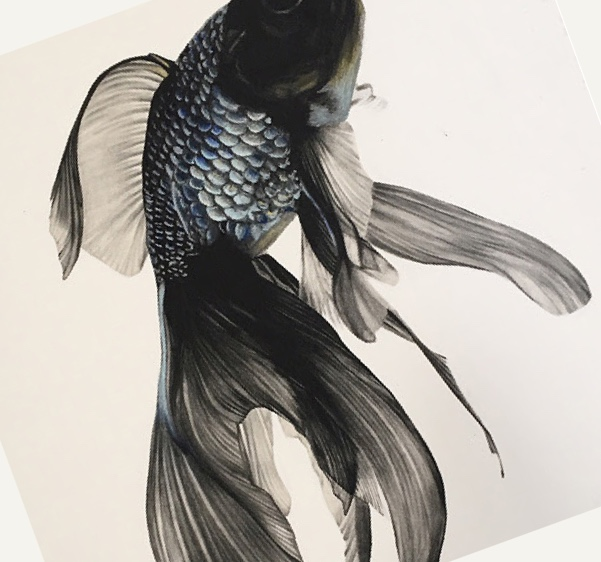
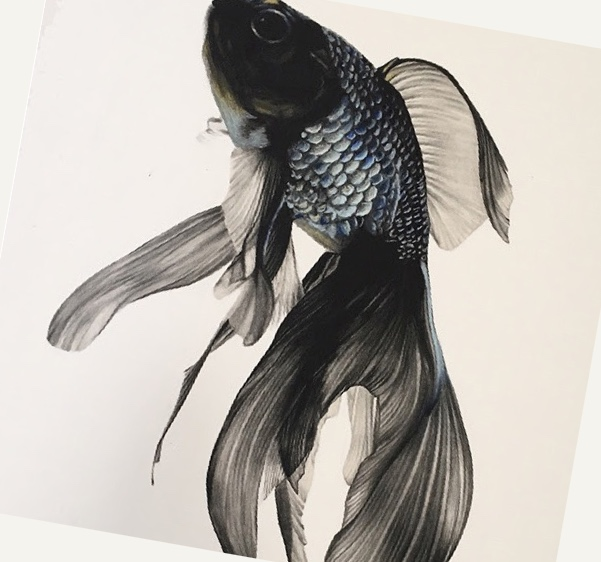
Hero: fish only, face left, organic frame with gentle float; remove river photo

diff --git a/style.css b/style.css
@@ -129,30 +129,28 @@ h1 em { color: var(--accent); font-style: italic; }
 .menu a:hover { color: var(--ink); background: var(--card); text-decoration: none; }
 
 /* Hero */
-.hero { padding: 64px 0 56px; position: relative; overflow: hidden; }
+.hero { padding: 64px 0 56px; position: relative; overflow: hidden; min-height: 440px; }
 .hero .wrap { position: relative; z-index: 1; }
 /* Photo fades softly into the page on all sides, on the right of the hero. */
-/* The whole picture sits inside a framed box on the right of the hero. */
+/* The fish sits in an organic, blob-shaped frame on the right of the hero,
+   with a slow float. */
 .hero-art {
   position: absolute;
   top: 50%;
-  right: 5%;
-  transform: translateY(-50%);
-  width: min(44vw, 520px);
-  height: 240px;
-  display: flex;
-  gap: 12px;
-  pointer-events: none;
-}
-.frame {
-  flex: 1;
-  background: #f2efe9 center / cover no-repeat;
-  border-radius: 16px;
+  right: 6%;
+  width: min(34vw, 360px);
+  height: 340px;
+  background: #f2efe9 url("images/fish.jpg?v=7") center / cover no-repeat;
+  border-radius: 48% 52% 46% 54% / 40% 44% 56% 60%;
   border: 1px solid var(--line);
-  box-shadow: 0 18px 36px -24px rgba(0, 0, 0, 0.5);
+  box-shadow: 0 24px 50px -28px rgba(0, 0, 0, 0.6), inset 0 0 0 10px rgba(255, 255, 255, 0.35);
+  pointer-events: none;
+  animation: float 7s ease-in-out infinite;
 }
-.f-fish { background-image: url("images/fish.jpg?v=6"); background-size: contain; }
-.f-river { background-image: url("images/background.jpg?v=6"); }
+@keyframes float {
+  0%, 100% { transform: translateY(-50%) rotate(0deg); }
+  50% { transform: translateY(calc(-50% - 10px)) rotate(1.5deg); }
+}
 @media only screen and (max-width: 760px) {
   .hero-art {
     position: relative;
@@ -160,7 +158,11 @@ h1 em { color: var(--accent); font-style: italic; }
     right: auto;
     transform: none;
     width: 100%;
-    height: 200px;
+    max-width: 320px;
+    height: 300px;
+    margin-left: auto;
+    margin-right: auto;
+    animation: none;
     margin-bottom: 24px;
   }
 }

diff --git a/index.html b/index.html
@@ -7,7 +7,7 @@
   <meta name="referrer" content="no-referrer">
   <meta name="description" content="Free audiobooks. No cookies, no trackers.">
   <title>Free Audiobooks</title>
-  <link rel="stylesheet" href="style.css?v=6">
+  <link rel="stylesheet" href="style.css?v=8">
 </head>
 <body>
   <header class="site-head">
@@ -21,10 +21,7 @@
 
   <main id="top">
     <section class="hero">
-      <div class="hero-art" aria-hidden="true">
-        <span class="frame f-fish"></span>
-        <span class="frame f-river"></span>
-      </div>
+      <div class="hero-art" aria-hidden="true"></div>
       <div class="wrap">
         <h1>Free audiobooks</h1>
         <p class="lead">Press play in your browser, or download a book to keep.</p>
@@ -43,12 +40,6 @@
 
   </main>
 
-  <footer class="foot">
-    <div class="wrap">
-      <p>Photo: “Aras river at Nurduz” by Yann Forget, <a href="https://commons.wikimedia.org/wiki/File:Aras_river_at_Nurduz_02.jpg">Wikimedia Commons</a>, <a href="https://creativecommons.org/licenses/by-sa/4.0">CC BY-SA 4.0</a>. Resized.</p>
-    </div>
-  </footer>
-
-  <script src="app.js?v=6"></script>
+  <script src="app.js?v=8"></script>
 </body>
 </html>
